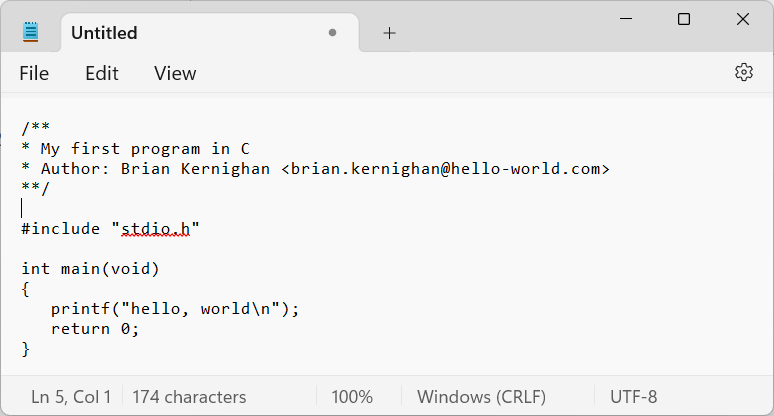
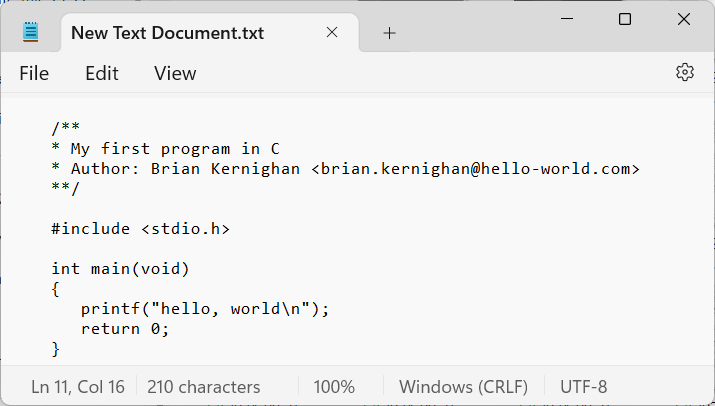
second release

diff --git a/README.md b/README.md
@@ -20,7 +20,7 @@
   - [WSL](#wsl)
     - [Windows Terminal](#windows-terminal)
     - [Familiarisation avec Linux](#familiarisation-avec-linux)
-    - [Outils de développement, compilation et execution](#outils-de-développement-compilation-et-execution)
+    - [Outils de développement, compilation et exécution](#outils-de-développement-compilation-et-exécution)
   - [Visual Studio Code](#visual-studio-code)
   - [Git](#git)
     - [Configuration de Git](#configuration-de-git)
@@ -188,7 +188,7 @@ Intégrez ce fichier `document.xml` à votre dossier de rendu.
 
 Notepad est un éditeur de texte très moyenâgeux, mais diantrement  utile (pensez aussi à installer l'éditeur [Notepad++](https://notepad-plus-plus.org/), qui offre des possibilités supplémentaires).
 
-<img src="assets/notepad.png" alt="notepad" style="zoom:10%;" />
+<img src="assets/notepad.png" alt="notepad" style="zoom:70%;" />
 
 
 
@@ -201,7 +201,7 @@ Notepad est un éditeur de texte très moyenâgeux, mais diantrement  utile (pen
    * Author: Brian Kernighan <brian.kernighan@hello-world.com>
    **/
    
-   #include "stdio.h"
+   #include <stdio.h>
    
    int main(void) 
    {
